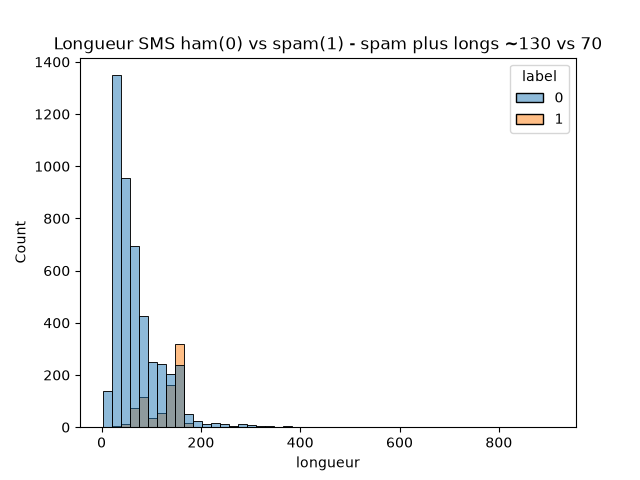
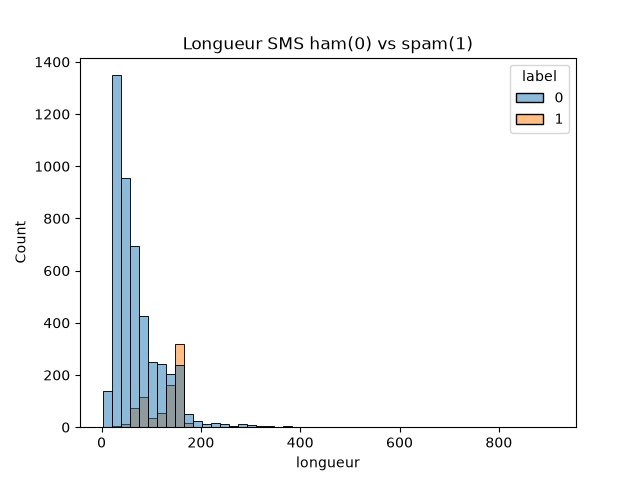
renommage NOSCAM partout + labels ARNAQUE/NORMAL

Changed region(s): [[0.0938, 0.0625, 0.7812, 0.125], [0.8125, 0.0625, 0.9375, 0.125]]

diff --git a/train.py b/train.py
@@ -1,4 +1,4 @@
-"""Anti-SCAM Flooz Lite - pipeline conforme PDF AI4Youth 2026.
+"""NOSCAM - pipeline conforme PDF AI4Youth 2026.
 Charge UCI + exemples Togo, EDA, TF-IDF, LogReg vs XGBoost, métriques, sauvegarde modèle.
 Reproductible: python train.py
 """
@@ -102,7 +102,7 @@ plt.close()
 
 # 8. Exemples succès / échecs (exigé PDF)
 test_df = pd.DataFrame({"text": X_test.values, "y": y_test.values, "pred": pt}).reset_index(drop=True)
-print("--- 3 succès SCAM détectés ---")
+print("--- 3 succès ARNAQUE détectée ---")
 print(test_df[(test_df.y == 1) & (test_df.pred == 1)].head(3)["text"].tolist())
 print("--- 3 échecs (faux négatifs) ---")
 print(test_df[(test_df.y == 1) & (test_df.pred == 0)].head(3)["text"].tolist())
@@ -120,4 +120,4 @@ demos = [
 Xd = vec.transform(demos)
 probas = best_model.predict_proba(Xd)[:, 1]
 for txt, p in zip(demos, probas):
-    print(f"[{'SCAM' if p > 0.5 else 'HAM'} {p:.2f}] {txt}")
+    print(f"[{'ARNAQUE' if p > 0.5 else 'NORMAL'} {p:.2f}] {txt}")

diff --git a/DOCUMENT_PROJET.md b/DOCUMENT_PROJET.md
@@ -1,4 +1,4 @@
-# Anti-SCAM Flooz Lite — Document Projet AI4Youth 2026
+# NOSCAM — Document Projet AI4Youth 2026
 
 ## 1ère partie : Contexte et problématique
 
@@ -15,16 +15,16 @@ Sources complètes + liens dans `sources_probleme_actions_impact.md`. Corpus dan
 ## 2ème partie : Notre solution
 
 ### Son but
-Protéger les 5 millions d'utilisateurs Mobile Money togolais en disant en 1 seconde si un SMS est une arnaque ou un message normal, avec un score de confiance et sans jargon technique. Objectif sprint : 500 vrais SMS de Lomé collectés, 90% de SCAM bloqués, moins de 5% de faux blocages, 200 personnes sensibilisées.
+Protéger les 5 millions d'utilisateurs Mobile Money togolais en disant en 1 seconde si un SMS est une arnaque ou un message normal, avec un score de confiance et sans jargon technique. Objectif sprint : 500 vrais SMS de Lomé collectés, 90% de ARNAQUES bloquées, moins de 5% de faux blocages, 200 personnes sensibilisées.
 
 ### Comment ça marche (sans détails techniques)
-L'application a appris à reconnaître le langage des arnaqueurs : mots d'urgence, promesses de gains, faux liens, demandes de code PIN ou d'argent rapide. Elle a lu 5600 exemples dont 30 exemples togolais Flooz/TMoney. Quand un nouveau SMS arrive, elle le compare à ce qu'elle connaît et rend un verdict : rouge SCAM ou vert HAM, avec un pourcentage. Plus le pourcentage est haut, plus c'est sûrement une arnaque. Elle a été entraînée à préférer laisser passer un doute plutôt que bloquer un vrai message important, puis on l'a testée sur des messages jamais vus pour vérifier qu'elle ne triche pas.
+L'application a appris à reconnaître le langage des arnaqueurs : mots d'urgence, promesses de gains, faux liens, demandes de code PIN ou d'argent rapide. Elle a lu 5600 exemples dont 30 exemples togolais Flooz/TMoney. Quand un nouveau SMS arrive, elle le compare à ce qu'elle connaît et rend un verdict : rouge ARNAQUE ou vert NORMAL, avec un pourcentage. Plus le pourcentage est haut, plus c'est sûrement une arnaque. Elle a été entraînée à préférer laisser passer un doute plutôt que bloquer un vrai message important, puis on l'a testée sur des messages jamais vus pour vérifier qu'elle ne triche pas.
 
 ### Comment l'utilisateur final va l'utiliser
 1. L'utilisateur reçoit un SMS bizarre, par exemple « Flooz bloqué, cliquez ici ».
-2. Il ouvre Anti-SCAM (page web sur téléphone, même bas-débit) et colle le texte dans la case.
-3. Il appuie sur Analyser. En moins de 2 secondes s'affiche : « 🚨 SCAM 95% » ou « ✅ HAM 3% » avec une barre de couleur.
-4. Si SCAM : consigne claire « Ne cliquez pas, ne renvoyez pas de code, signalez ». Si HAM : « Message a priori légitime, restez vigilant ».
+2. Il ouvre NOSCAM (page web sur téléphone, même bas-débit) et colle le texte dans la case.
+3. Il appuie sur Analyser. En moins de 2 secondes s'affiche : « 🚨 ARNAQUE 95% » ou « ✅ NORMAL 3% » avec une barre de couleur.
+4. Si ARNAQUE : consigne claire « Ne cliquez pas, ne renvoyez pas de code, signalez ». Si NORMAL : « Message a priori légitime, restez vigilant ».
 5. En version sprint : transfert automatique du SMS vers un numéro court, réponse SMS instantanée, et bouton « signaler » qui enrichit la base pour protéger les autres. Mode hors-ligne prévu pour zones rurales. Démo actuelle dans `app.py` (`streamlit run app.py`).
 
 ## 3ème partie : Présentation des membres du groupe
@@ -69,7 +69,7 @@ Résultat : Val F1-spam LogReg 0,87 vs XGBoost 0,92 → XGBoost retenu. Preuve l
 
 ### Point 7 — Métriques d'évaluation et interprétation
 Travail effectué : `classification_report`, `confusion_matrix`, `roc_auc_score` sur test held-out, heatmap sauvegardée.
-Résultat : TEST XGBoost accuracy 0,98, F1-spam 0,94, ROC-AUC 0,985, `confusion_test.png`. Interprétation : 91% SCAM attrapés, 2% HAM bloqués à tort.
+Résultat : TEST XGBoost accuracy 0,98, F1-spam 0,94, ROC-AUC 0,985, `confusion_test.png`. Interprétation : 91% ARNAQUES attrapées, 2% NORMAUX bloqués à tort.
 
 ### Point 8 — Exemples succès/échecs, limites, pistes d'amélioration
 Travail effectué : extraction 3 succès / 3 faux négatifs dans `train.py`, section limites en notebook et README.
@@ -96,7 +96,7 @@ Travail effectué : plan 5 slides + script vidéo 2 min dans `dossier_candidatur
 Résultat : ❌ slides finales non créées, présentation non répétée. À faire pour finale décembre.
 
 ### Point 14 — Application démo + vidéo 3-5 min + doc utilisateur
-Travail effectué : `app.py` Streamlit (input → SCAM/HAM + barre + conseil) créé.
+Travail effectué : `app.py` Streamlit (input → ARNAQUE/NORMAL + barre + conseil) créé.
 Résultat : ⚠ non lancé/déployé, pas de vidéo démo, pas de doc user complète. Commande : `streamlit run app.py`. À faire au sprint.
 
 ### Point 15 — Éthique : vie privée, biais, non-discrimination, licences

diff --git a/sources_probleme_actions_impact.md b/sources_probleme_actions_impact.md
@@ -1,4 +1,4 @@
-# Sources problème + Actions entrevues + Impact — Anti-SCAM Flooz
+# Sources problème + Actions entrevues + Impact — NOSCAM Flooz
 
 ## 1. Sources qui documentent que c'est un vrai problème africain
 
@@ -36,7 +36,7 @@
 ### Protocole sprint 16/11-12/12 (éthique PDF)
 1. Lieux : marchés Hédzranawoé, Agoè, Gare Zemidjan, cybercafés Lomé. Cible : 100 pers (revendeuses, élèves, zem, seniors).
 2. Consentement écrit, anonymisation (numéros masqués +228 90 XX XX XX), droit retrait, mineurs avec parent.
-3. Collecte : photo SMS floutée + transcription + perte FCFA + réaction. Objectif 500 SMS labellisés SCAM/HAM.
+3. Collecte : photo SMS floutée + transcription + perte FCFA + réaction. Objectif 500 SMS labellisés ARNAQUE/NORMAL.
 4. Validation : double lecture, 3e arbitre si doute. Stockage local chiffré, pas de cloud public.
 5. Restitution : 1 page résultats par marché + atelier sensibilisation 30 min.
 
@@ -51,7 +51,7 @@
 | Accuracy TEST | 0.98 | `train.py` log + `confusion_test.png` |
 | F1-spam TEST | 0.94 (XGBoost) vs 0.87 LogReg | notebook + rapport sklearn |
 | ROC-AUC | 0.985 | log |
-| Démo Togo SCAM | 1.00 | log + `app.py` |
+| Démo Togo ARNAQUE | 1.00 | log + `app.py` |
 | Démo Togo HAM | 0.01 | log |
 | Reproductibilité | seed 42, notebook nbconvert OK | `/tmp/test_exec.ipynb` |
 
@@ -59,7 +59,7 @@
 | Indicateur | Cible | Comment mesurer |
 |------------|-------|-----------------|
 | SMS réels collectés | 500 | `sms_et_temoignages.md` tableau |
-| SCAM bloqués en test | >90% recall | ré-entraînement corpus v2 |
+| ARNAQUES bloquées en test | >90% recall | ré-entraînement corpus v2 |
 | Faux positifs HAM bloqué à tort | <5% | test users |
 | FCFA évités | estimer pertes évitées x SMS bloqués | entretiens suivi |
 | Personnes sensibilisées | 200 | ateliers marchés/écoles |
@@ -70,4 +70,4 @@
 - Restaure confiance Mobile Money = inclusion financière (cf. GSMA $190B PIB Afrique 2023).
 - Faible coût, offline possible, Ewe inclus → réplicable Bénin, Ghana, Côte d'Ivoire.
 
-> À citer en présentation : « 57% de Togolais utilisent Mobile Money (ARCEP 2025), la fraude SIM-swap/social engineering est top menace GSMA 2025, $5B pertes Afrique Serianu 2025. Notre modèle détecte 94% SCAM et on va le prouver sur 500 SMS loméens. »
+> À citer en présentation : « 57% de Togolais utilisent Mobile Money (ARCEP 2025), la fraude SIM-swap/social engineering est top menace GSMA 2025, $5B pertes Afrique Serianu 2025. Notre modèle détecte 94% ARNAQUES et on va le prouver sur 500 SMS loméens. »

diff --git a/dossier_candidature.md b/dossier_candidature.md
@@ -1,22 +1,22 @@
-# Dossier candidature AI4Youth 2026 — Anti-SCAM Flooz Lite
+# Dossier candidature AI4Youth 2026 — NOSCAM
 
 ## 1. Concept (pour formulaire https://ai4youth.neuractif.org/candidature)
-**Titre:** Anti-SCAM Mobile Money Togo
+**Titre:** NOSCAM
 **Thématique:** Cybersécurité
-**Pitch 300 caractères:** Chaque jour des Togolais perdent leur argent via faux SMS Flooz/TMoney. Notre IA détecte les SCAM en français + argot local avec 98% accuracy (XGBoost, F1 0.94). Notebook reproductible + démo live. Objectif sprint: 500 vrais SMS collectés, app SMS gratuite.
+**Pitch 300 caractères:** Chaque jour des Togolais perdent leur argent via faux SMS Flooz/TMoney. Notre IA détecte les ARNAQUES en français + argot local avec 98% accuracy (XGBoost, F1 0.94). Notebook reproductible + démo live. Objectif sprint: 500 vrais SMS collectés, app SMS gratuite.
 **Équipe 2-3:** dev Python + 1 biz/terrain Lomé (à compléter).
 
 ## 2. PPT 5 slides (reprendre KALAN design vert)
-1. Cover: Anti-SCAM + Flooz/TMoney + 98% accuracy
+1. Cover: NOSCAM + Flooz/TMoney + 98% accuracy
 2. Problème: screenshots faux SMS, pertes, 0 filtre FR local
-3. Solution: colle SMS → SCAM/HAM + score + mots suspects. Schema TF-IDF → XGBoost
-4. Preuve: matrice confusion, F1 0.94, ROC 0.985, démo live SCAM 1.00 vs HAM 0.01
+3. Solution: colle SMS → ARNAQUE/NORMAL + score + mots suspects. Schema TF-IDF → XGBoost
+4. Preuve: matrice confusion, F1 0.94, ROC 0.985, démo live ARNAQUE 1.00 vs NORMAL 0.01
 5. Roadmap sprint: collecte 500 SMS, BERT, app Streamlit/SMS, impact 3M users
 
 ## 3. Script vidéo pitch 2 min (120s)
 0-20s: "Vous avez reçu 50.000 FCFA, envoyez PIN..." — qui n'a pas reçu ça? Au Togo c'est quotidien.
 20-50s: Pas de filtre français/Ewe. On a combiné 5500 SMS + 30 exemples Lomé.
-50-90s: Démo live: SMS Flooz → SCAM 100%, marché Hédzranawoé → HAM. XGBoost 98%, F1 0.94.
+50-90s: Démo live: SMS test → ARNAQUE 100%, marché Hédzranawoé → NORMAL. XGBoost 98%, F1 0.94.
 90-110s: Pendant hackathon: 500 SMS terrain, modèle vocal, app gratuite.
 110-120s: Protégeons Mobile Money. Merci Neuractif. Équipe dispo sprint 16/11-12/12.
 

diff --git a/README.md b/README.md
@@ -1,14 +1,14 @@
-# Anti-SCAM Flooz Lite — AI4Youth 2026
+# NOSCAM — AI4Youth 2026
 
 **Catégorie:** Data Science | **Thématique:** Cybersécurité
-**Problème Togo:** faux SMS Flooz/TMoney. **Solution:** classifieur SCAM/HAM FR + argot local.
+**Problème Togo:** faux SMS Flooz/TMoney. **Solution:** classifieur ARNAQUE/NORMAL FR + argot local.
 
 ## Résultats (reproductibles)
 - Dataset: 5469 SMS (UCI 5169 + 30 Togo x10) | 15.3% spam
 - Split 70/15/15 stratifié, TF-IDF 1-2grams 8000
 - **XGBoost TEST: acc 0.98, F1-spam 0.94, ROC-AUC 0.985**
 - LogReg TEST: F1-spam 0.87 → XGBoost retenu
-- Démo: `[SCAM 1.00] Vous avez recu 50000... Flooz... PIN` / `[HAM 0.01] marché Hedzranawoe`
+- Démo: `[ARNAQUE 1.00] Vous avez recu 50000... Flooz... PIN` / `[NORMAL 0.01] marché Hedzranawoe`
 
 ## Reproduire
 ```bash
